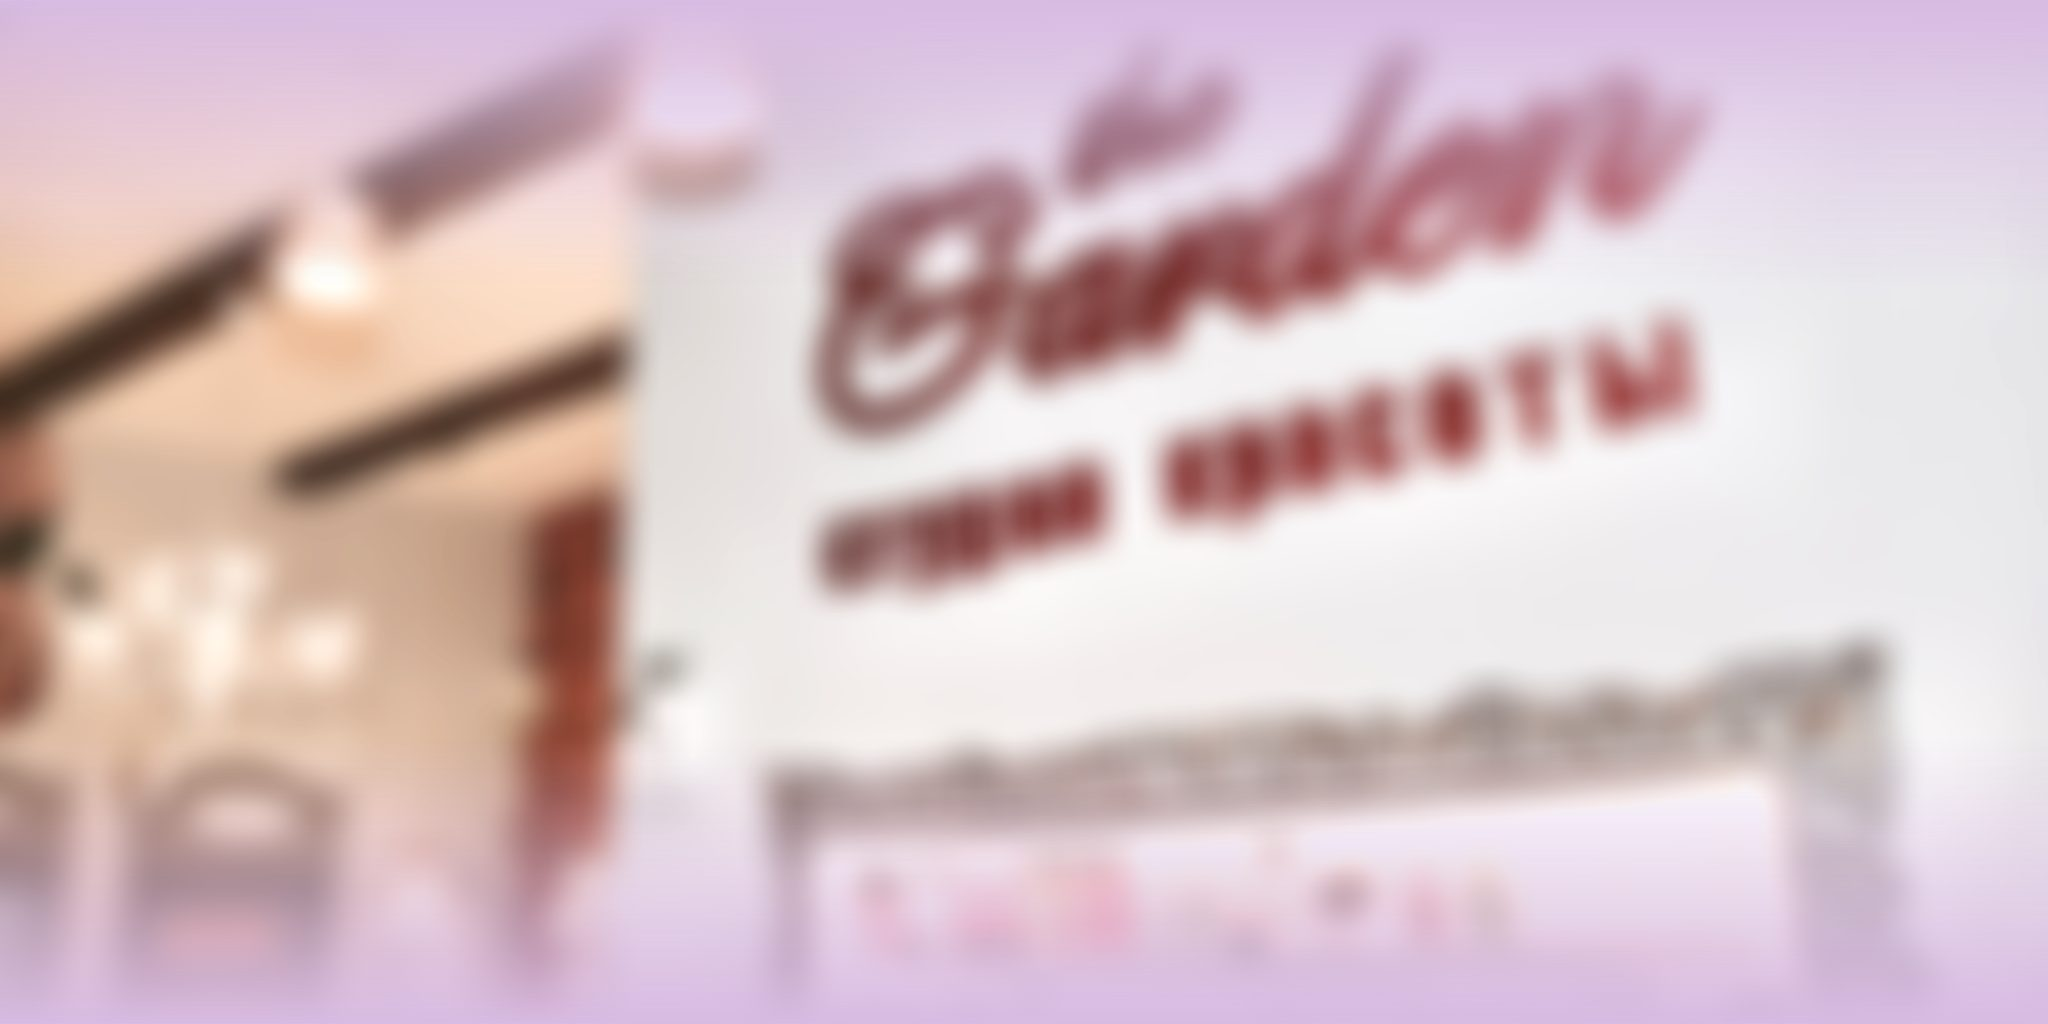
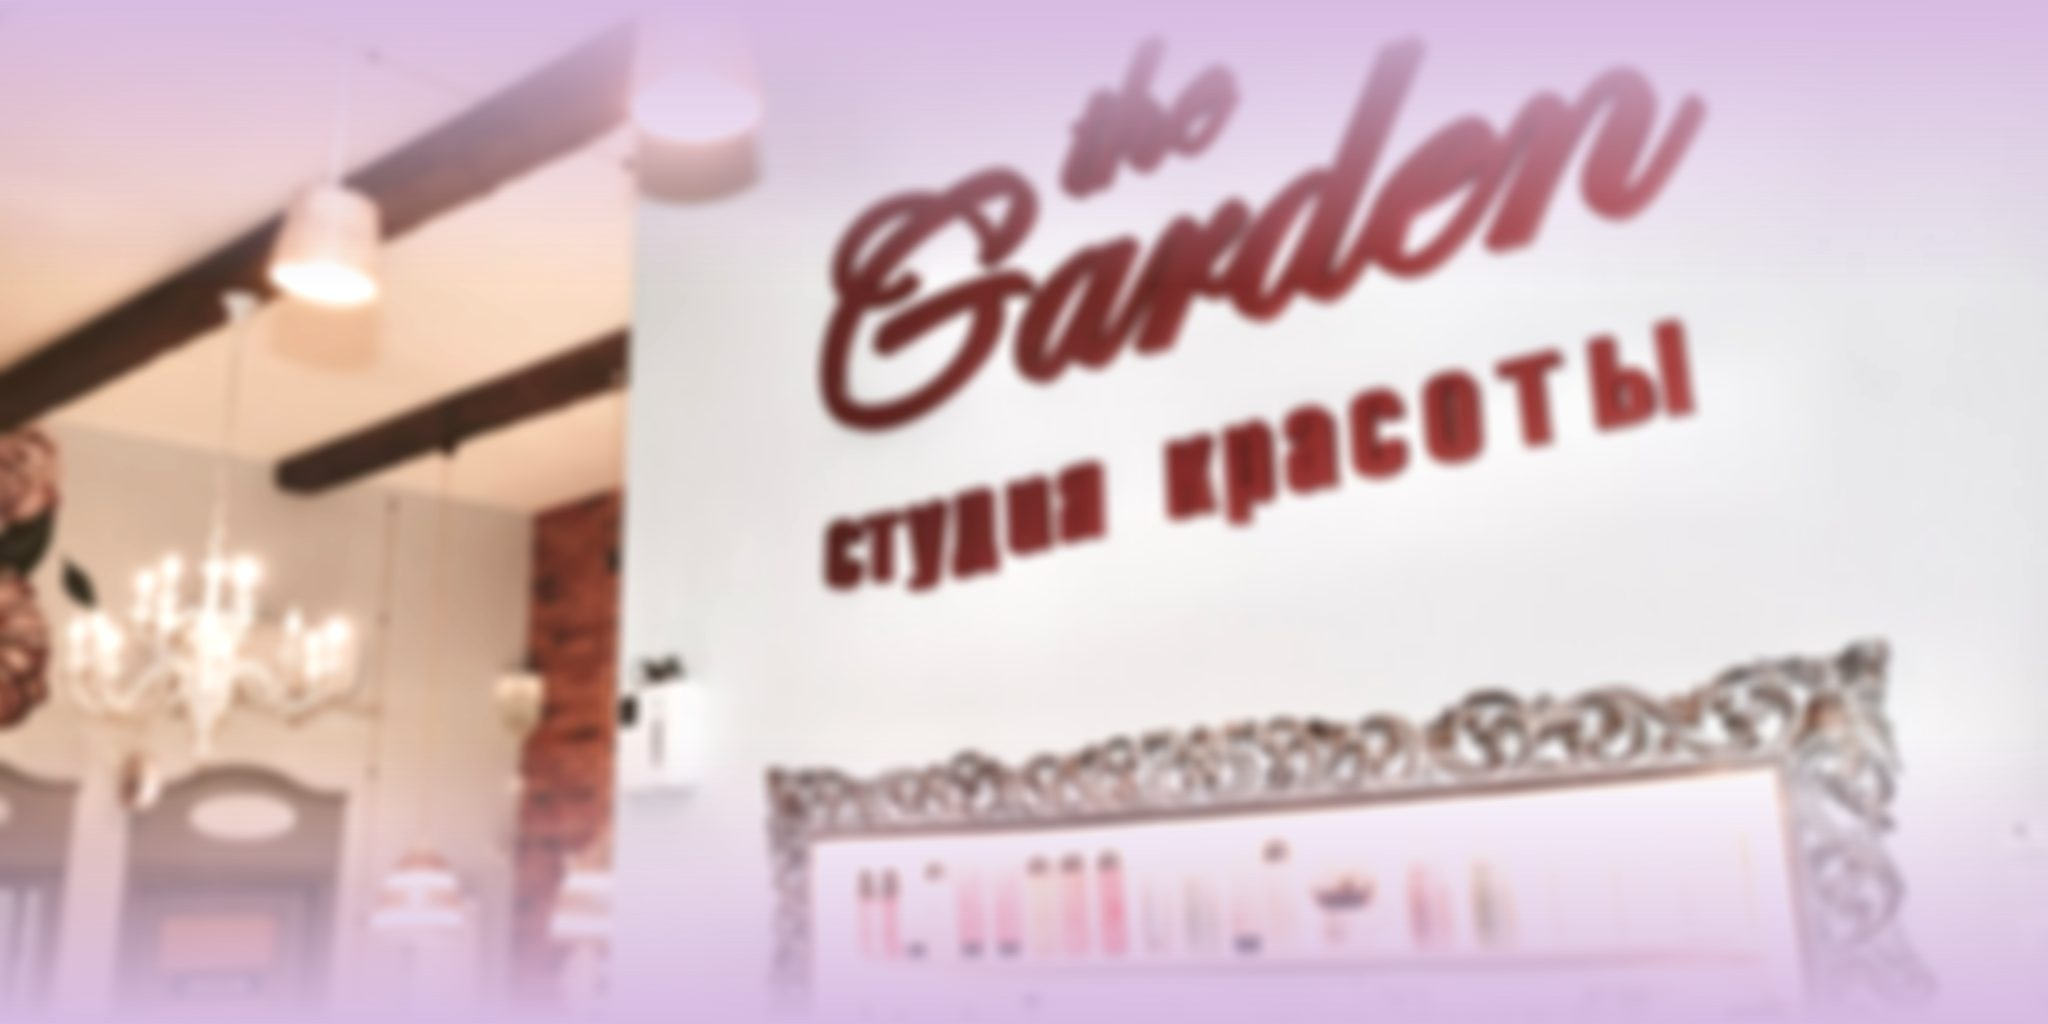
Hero: интерактив пиона, env 2048x1024, dispose и показ после первого кадра
- наклон за курсором ±8° (desktop, hover+fine pointer), поворот до 40° и
  опускание на 10vh при скролле hero, поле переходит в peony на 60%
  скролла на всю секцию (раньше срабатывало сразу на старте);
- env 2048x1024, blur 6 вместо 18 — хром читается как зеркало;
- dispose на pagehide (+ подъём из bfcache), fallback прячется после
  первого отрисованного кадра с fade, ошибки start() в console.error.

Бэклог критики шага 4 отмечен. check: 0 ошибок, detect: 0 находок.

diff --git a/src/scripts/flower.ts b/src/scripts/flower.ts
@@ -5,7 +5,7 @@ import { getStudio, onStudioChange, type StudioId } from './studio-state';
 import { prefersReducedMotion } from './motion';
 
 const BASE = import.meta.env.BASE_URL.replace(/\/$/, '');
-const ENV_SIZE = { w: 1024, h: 512 };
+const ENV_SIZE = { w: 2048, h: 1024 };
 
 function canRunWebGL(): boolean {
   const nav = navigator as Navigator & { connection?: { saveData?: boolean } };
@@ -33,8 +33,16 @@ export function initFlower(): void {
   const hero = document.querySelector<HTMLElement>('[data-hero]');
   if (!host || !hero || !canRunWebGL()) return;
 
+  const launch = () =>
+    void start(host, hero).catch((err) => console.error('[flower] сцена не запущена:', err));
+
   // после первого кадра
-  requestAnimationFrame(() => requestAnimationFrame(() => void start(host, hero).catch(() => {})));
+  requestAnimationFrame(() => requestAnimationFrame(launch));
+
+  // возврат из bfcache: сцена была освобождена в pagehide — поднимаем заново
+  window.addEventListener('pageshow', (e) => {
+    if (e.persisted && !host.querySelector('canvas')) launch();
+  });
 }
 
 async function start(host: HTMLElement, hero: HTMLElement): Promise<void> {
@@ -51,7 +59,8 @@ async function start(host: HTMLElement, hero: HTMLElement): Promise<void> {
   renderer.toneMappingExposure = 1.05;
   const canvas = renderer.domElement;
   canvas.setAttribute('aria-hidden', 'true');
-  canvas.style.cssText = 'position:absolute;inset:0;width:100%;height:100%;display:block;';
+  canvas.style.cssText =
+    'position:absolute;inset:0;width:100%;height:100%;display:block;opacity:0;transition:opacity 320ms ease-out;will-change:transform;';
 
   const scene = new THREE.Scene();
   const camera = new THREE.PerspectiveCamera(30, 1, 0.1, 50);
@@ -148,8 +157,18 @@ async function start(host: HTMLElement, hero: HTMLElement): Promise<void> {
 
   const fallbackEl = host.querySelector<HTMLElement>('.flower-fallback');
   host.appendChild(canvas);
-  fallbackEl?.style.setProperty('visibility', 'hidden');
   let dead = false;
+  let firstFrameDone = false;
+
+  // Курсор наклоняет цветок до ±8° — только на устройствах с точным указателем (desktop).
+  const TILT = (8 * Math.PI) / 180;
+  const canTilt = window.matchMedia('(hover: hover) and (pointer: fine)').matches && !mobile;
+  const pointer = { x: 0, y: 0, tx: 0, ty: 0 };
+  const onPointer = (e: PointerEvent) => {
+    pointer.tx = (e.clientX / window.innerWidth) * 2 - 1;
+    pointer.ty = (e.clientY / window.innerHeight) * 2 - 1;
+  };
+  if (canTilt) window.addEventListener('pointermove', onPointer, { passive: true });
 
   const resize = () => {
     const r = host.getBoundingClientRect();
@@ -181,8 +200,27 @@ async function start(host: HTMLElement, hero: HTMLElement): Promise<void> {
     }
     const tt = Math.max((now - t0) / 1000, 0);
     for (const pt of petals) pt.pivot.children[0].rotation.x = -(Math.PI / 2 - tilt(pt, tt));
-    flower.rotation.y = tt * 0.06;
+    // скролл первого экрана: поворот до 40° и опускание на 10vh
+    const r = hero.getBoundingClientRect();
+    const p = Math.min(Math.max(-r.top / Math.max(r.height, 1), 0), 1);
+    pointer.x += (pointer.tx - pointer.x) * 0.08;
+    pointer.y += (pointer.ty - pointer.y) * 0.08;
+    flower.rotation.y = tt * 0.06 + p * ((40 * Math.PI) / 180);
+    flower.rotation.x = pointer.y * TILT;
+    flower.rotation.z = -pointer.x * TILT;
+    canvas.style.transform = `translate3d(0, ${(p * 10).toFixed(2)}vh, 0)`;
     renderer.render(scene, camera);
+    if (!firstFrameDone) {
+      // fallback прячем только после первого реально отрисованного кадра
+      firstFrameDone = true;
+      requestAnimationFrame(() => {
+        if (dead) return;
+        canvas.style.opacity = '1';
+        window.setTimeout(() => {
+          if (!dead) fallbackEl?.style.setProperty('visibility', 'hidden');
+        }, 340);
+      });
+    }
     requestAnimationFrame(frame);
   };
   const kick = () => {
@@ -224,6 +262,12 @@ async function start(host: HTMLElement, hero: HTMLElement): Promise<void> {
     io.disconnect();
     document.removeEventListener('visibilitychange', kick);
     unsubscribe();
+    window.removeEventListener('pointermove', onPointer);
+    window.removeEventListener('pagehide', teardown);
+    flower.traverse((o) => {
+      if ((o as import('three').Mesh).isMesh) (o as import('three').Mesh).geometry.dispose();
+    });
+    material.dispose();
     envRT?.dispose();
     envTex.dispose();
     pmrem.dispose();
@@ -231,6 +275,8 @@ async function start(host: HTMLElement, hero: HTMLElement): Promise<void> {
     canvas.remove();
     fallbackEl?.style.removeProperty('visibility');
   };
+  // уход со страницы: освобождаем GPU-ресурсы
+  window.addEventListener('pagehide', teardown);
   canvas.addEventListener('webglcontextlost', (e) => {
     e.preventDefault();
     dead = true;
@@ -239,6 +285,6 @@ async function start(host: HTMLElement, hero: HTMLElement): Promise<void> {
   });
   canvas.addEventListener('webglcontextrestored', () => {
     teardown();
-    void start(host, hero).catch(() => {});
+    void start(host, hero).catch((err) => console.error('[flower] пересоздание сцены:', err));
   });
 }

diff --git a/src/scripts/hero.ts b/src/scripts/hero.ts
@@ -45,8 +45,7 @@ function runLoadSequence(hero: HTMLElement): void {
 function initFieldShift(hero: HTMLElement): void {
   ScrollTrigger.create({
     trigger: hero,
-    start: 'top top',
-    end: '60% top',
+    start: '60% top', // 60% высоты hero прокручено
     onEnter: () => hero.setAttribute('data-field', 'peony'),
     onLeaveBack: () => hero.setAttribute('data-field', 'pearl'),
   });

diff --git a/docs/critique-log.md b/docs/critique-log.md
@@ -72,7 +72,7 @@ Method: dual-agent (A: design review · B: detector/evidence), два изоли
 
 - [ ] **P1** Fallback по §6.1: 2 WebP-рендера (по студии), `npm run render:flower` на headless-Chromium, запись происхождения; подмена по студии.
 - [ ] **P2** Кроссфейд env: не пересчитывать PMREM каждый кадр (две PMREM заранее + микс или 6–8 шагов).
-- [ ] **P2** Env 2048×1024 напрямую, blur 6–8 (сейчас 1024×512, blur 18 — «молочное» отражение).
-- [ ] **P2** Интерактив §5.1/§6.2: наклон от курсора ±8°, поворот 40° и опускание 10vh при скролле (шаг 11).
-- [ ] **P2** Полный teardown при штатной жизни страницы; `start().catch` не должен глотать ошибку после скрытия fallback; скрывать fallback после первого render с fade.
+- [x] **P2** Env 2048×1024 напрямую, blur 6 (было 1024×512, blur 18) — сделано 15.10.2026. Побочно: пересчёт PMREM в кроссфейде стал тяжелее — см. пункт про кроссфейд.
+- [x] **P2** Интерактив §5.1/§6.2: наклон от курсора ±8°, поворот 40° и опускание 10vh при скролле — сделано в hero 15.10.2026 (наклон только desktop с точным указателем; при reduced-motion сцена не запускается). Остальное движение — шаг 11.
+- [x] **P2** Полный teardown при штатной жизни страницы; `start().catch` не должен глотать ошибку после скрытия fallback; скрывать fallback после первого render с fade. — сделано 15.10.2026: dispose на pagehide (+ подъём из bfcache), fallback скрывается после первого кадра с fade 320ms, ошибки start() в console.error.
 - [ ] **P3** Порог `hardwareConcurrency ≤ 4` — решение продукта (подтвердить или поднять до ≤2).
